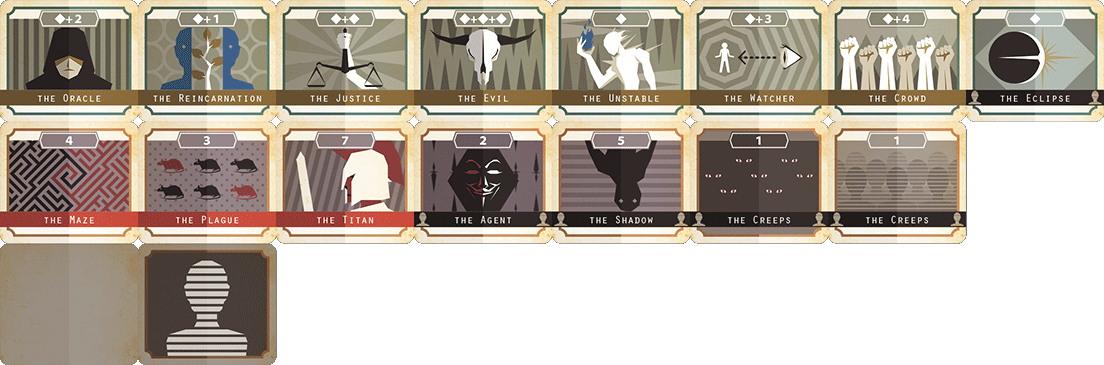
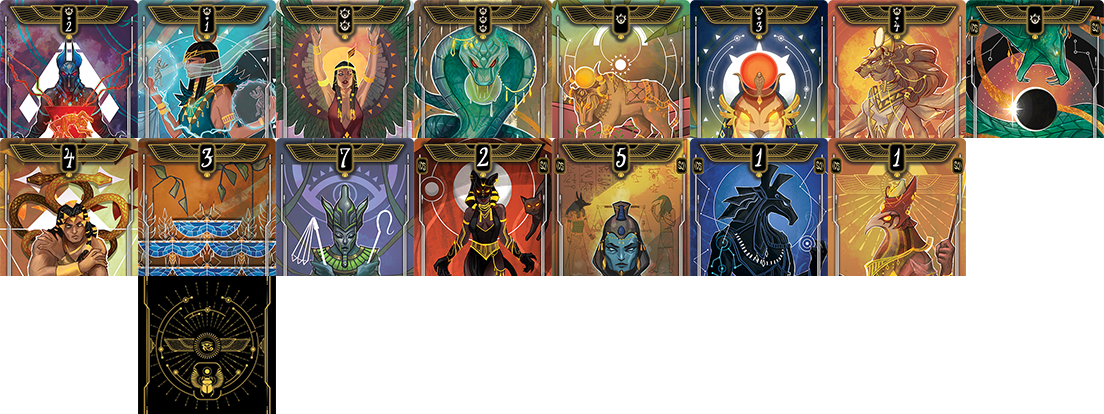
Replace non-center cards

diff --git a/src/def/card.ts b/src/def/card.ts
@@ -7,16 +7,17 @@ const cardDefs: { [cardType: string]: CardDef } = {
   mainCard: {
     image: cardsetImgUrl,
     sprite: '8x2',
-    size: { width: '276px', height: '390px', radius: '20px' },
+    size: { width: '275px', height: '472px', radius: '20px' },
     textDef: {
-      offsetY: '50%',
-      padding: '24px',
+      offsetY: '80%',
+      paddingSide: '29px',
+      paddingBottom: '23px',
     },
     minModalTop: 64,
     details: {
       0: {
-        name: 'the Oracle',
-        text: '[Placement] Choose a unit already placed in this lane. Disable stealth and [Combat] ability from the unit.',
+        name: 'Anubis',
+        text: '[Placement] Choose a unit already placed in this lane. Disable stealth and ability from the unit.',
         power: {
           fixed: 2,
           center: 1,
@@ -25,7 +26,7 @@ const cardDefs: { [cardType: string]: CardDef } = {
         stealth: false,
       },
       1: {
-        name: 'the Reincarnation',
+        name: 'Isis',
         text: '[Placement] Discard a non-stealth unit in this lane. The owner draws a unit card from the pile and immediately places it on the same lane.',
         power: {
           fixed: 1,
@@ -35,8 +36,8 @@ const cardDefs: { [cardType: string]: CardDef } = {
         stealth: false,
       },
       2: {
-        name: 'the Justice',
-        text: '[Combat] Increases ◆ in this lane by 1.',
+        name: 'Maat',
+        text: '[Combat] Increases ${loc_num} in this lane by 1.',
         power: {
           fixed: 0,
           center: 2,
@@ -45,8 +46,8 @@ const cardDefs: { [cardType: string]: CardDef } = {
         stealth: false,
       },
       3: {
-        name: 'the Evil',
-        text: '[Combat] Receive 1 damage if you lose in this lane.',
+        name: 'Apofis',
+        text: '[Combat] Receive 1 additional damage if you lose in this lane.',
         power: {
           fixed: 0,
           center: 3,
@@ -55,8 +56,8 @@ const cardDefs: { [cardType: string]: CardDef } = {
         stealth: false,
       },
       4: {
-        name: 'the Unstable',
-        text: '[Combat] Power of this unit becomes 15 if ◆ in this lane is either 6+ or 0-.',
+        name: 'Apis',
+        text: '[Combat] Power of APIS becomes 15 if ${loc_num} in this lane is either 6 or more than 6 or 0 or lower than 0.',
         power: {
           fixed: 0,
           center: 1,
@@ -65,7 +66,7 @@ const cardDefs: { [cardType: string]: CardDef } = {
         stealth: false,
       },
       5: {
-        name: 'the Watcher',
+        name: 'Ra',
         text: '[Placement] Choose and disable stealth from a unit (regardless of the lane).',
         power: {
           fixed: 3,
@@ -75,8 +76,8 @@ const cardDefs: { [cardType: string]: CardDef } = {
         stealth: false,
       },
       6: {
-        name: 'the Crowd',
-        text: 'None.',
+        name: 'Tefnut',
+        text: 'Tefnut has no ability.',
         power: {
           fixed: 4,
           center: 1,
@@ -84,8 +85,8 @@ const cardDefs: { [cardType: string]: CardDef } = {
         stealth: false,
       },
       7: {
-        name: 'the Eclipse',
-        text: '[Combat] Ties the Combat in this lane if the power gap is 4+. (Prior to the Titan).',
+        name: 'Eclipse',
+        text: '[Combat] Draw the combat in this lane if the power gap is 4+ (prior to Osiris).',
         power: {
           fixed: 0,
           center: 1,
@@ -93,7 +94,7 @@ const cardDefs: { [cardType: string]: CardDef } = {
         stealth: true,
       },
       8: {
-        name: 'the Maze',
+        name: 'Heka',
         text: '[Placement] Choose a stealth unit in this lane. Move it to another lane.',
         power: {
           fixed: 4,
@@ -103,8 +104,8 @@ const cardDefs: { [cardType: string]: CardDef } = {
         stealth: false,
       },
       9: {
-        name: 'the Plague',
-        text: '[Combat] Change ◆ in this lane to 0. (Apply this before any other abilities)',
+        name: 'La Plaga',
+        text: '[Combat] Change ${loc_num} in this lane to 0. (Apply this before any other combat abilities.)',
         power: {
           fixed: 3,
           center: 0,
@@ -112,8 +113,8 @@ const cardDefs: { [cardType: string]: CardDef } = {
         stealth: false,
       },
       10: {
-        name: 'the Titan',
-        text: '[Combat] The lower power wins in this lane. (Unless the combat is tied by the Eclipseʼs ability).',
+        name: 'Osiris',
+        text: '[Combat] The one with lower power wins in this lane (unless there is a draw).',
         power: {
           fixed: 7,
           center: 0,
@@ -121,8 +122,8 @@ const cardDefs: { [cardType: string]: CardDef } = {
         stealth: false,
       },
       11: {
-        name: 'the Agent',
-        text: '[Combat] Deals 1 damage to the opponent if you win this lane.',
+        name: 'Bastet',
+        text: '[Combat] Deals 1 additional damage to the opponent if you win in this lane.',
         power: {
           fixed: 2,
           center: 0,
@@ -130,8 +131,8 @@ const cardDefs: { [cardType: string]: CardDef } = {
         stealth: true,
       },
       12: {
-        name: 'the Shadow',
-        text: '[Combat] Reduces ◆ in this lane by 2.',
+        name: 'El Libro de los Muertos',
+        text: '[Combat] Reduces ${loc_num} in this lane by 2.',
         power: {
           fixed: 5,
           center: 0,
@@ -139,7 +140,7 @@ const cardDefs: { [cardType: string]: CardDef } = {
         stealth: true,
       },
       13: {
-        name: 'the Creeps',
+        name: 'Seth',
         text: '',
         power: {
           fixed: 1,
@@ -148,7 +149,7 @@ const cardDefs: { [cardType: string]: CardDef } = {
         stealth: true,
       },
       14: {
-        name: 'the Creeps',
+        name: 'Horus',
         text: '',
         power: {
           fixed: 1,
@@ -158,7 +159,7 @@ const cardDefs: { [cardType: string]: CardDef } = {
       },
       17: {
         name: 'Stealth',
-        text: '(Reviealed at the battle phase!)',
+        text: '(Reviealed at the combat phase!)',
         power: {
           fixed: 1,
           center: 0,
@@ -170,7 +171,7 @@ const cardDefs: { [cardType: string]: CardDef } = {
     miniDef: {
       image: cardsetMiniImgUrl,
       sprite: '8x3',
-      size: { width: '138px', height: '121.6px', radius: '10px' },
+      size: { width: '138px', height: '138px', radius: '10px' },
     },
   },
   centerCard: {

diff --git a/src/type/card-def.d.ts b/src/type/card-def.d.ts
@@ -1,0 +1,64 @@
+interface SizeDef {
+  width: string;
+  height: string;
+  radius: string;
+}
+
+interface TextLayoutDef {
+  offsetY: string;
+  offsetX?: string;
+  paddingSide: string;
+  paddingBottom: string;
+}
+
+type OnPlay =
+  | "TargetSameLane:Silence"
+  | "TargetNonStealthSameLane:Reincanate"
+  | "TargeAnytStealth:Reveal"
+  | "TargetSameLaneToAnother:Maze";
+type OnResolution =
+  | "IncleaseCenterBy1"
+  | "Receive1OnLose"
+  | "Becomes15OnCenter0or6"
+  | "ChangeCenterTo0"
+  | "LowerWins"
+  | "TiesOn4+"
+  | "Deal1OnWin"
+  | "ReducesCenterBy2";
+
+interface CardDetail {
+  name: string;
+  text: string;
+  power: {
+    fixed: number;
+    center: 0 | 1 | 2 | 3;
+  };
+  onPlay?: OnPlay;
+  onResolution?: OnResolution;
+  stealth: boolean;
+  onlyMini?: boolean;
+}
+
+interface CardDef {
+  image: string;
+  sprite: string;
+  size: SizeDef;
+  textDef?: TextLayoutDef;
+  minModalTop?: number;
+  details?: {
+    [id: number]: CardDetail;
+  };
+  miniDef?: MiniDef;
+}
+
+interface MiniDef {
+  image: string;
+  sprite: string;
+  size: SizeDef;
+}
+
+interface CardMetaDef {
+  text: string;
+}
+
+export { SizeDef, TextLayoutDef, CardDetail, CardDef, MiniDef, CardMetaDef };

diff --git a/src/components/GameCard.vue b/src/components/GameCard.vue
@@ -86,7 +86,8 @@ const updateDef = () => {
   size = def.size;
   textDef = def.textDef || {
     offsetY: '0',
-    padding: '0',
+    paddingSide: '0',
+    paddingBottom: '0',
   };
   miniDef = def.miniDef || null;
   bgPos.value = getBgPos(def.sprite, def.size, idx);
@@ -207,7 +208,9 @@ const hideDetails = () => {
             v-if="text"
             v-bind:style="{
               top: textDef.offsetY,
-              borderWidth: textDef.padding || 0,
+              borderWidth: `0 ${textDef.paddingSide || 0} ${
+                textDef.paddingBottom || 0
+              }`,
             }"
           >
             {{ i18n(text) }}
@@ -272,7 +275,9 @@ const hideDetails = () => {
           v-if="text"
           v-bind:style="{
             top: textDef.offsetY,
-            borderWidth: textDef.padding || 0,
+            borderWidth: `0 ${textDef.paddingSide || 0} ${
+              textDef.paddingBottom || 0
+            }`,
           }"
         >
           {{ i18n(text) }}
@@ -339,6 +344,7 @@ const hideDetails = () => {
   border: 0px solid transparent;
   overflow-y: auto;
   text-align: left;
+  font-size: small;
 }
 .title {
   position: absolute;

diff --git a/src/type/ctrl-button-def.d.ts b/src/type/ctrl-button-def.d.ts
@@ -1,0 +1,17 @@
+type ButtonType = "cancel" | "submit" | "mulligan" | "noMulligan" | "confirm";
+
+interface ButtonSizeDef {
+  width: string;
+  height: string;
+  radius: string;
+}
+
+interface CtrlButtonDef {
+  size: ButtonSizeDef;
+  label: string;
+  textColor: string;
+  background: string;
+  border: string;
+}
+
+export { ButtonType, ButtonSizeDef, CtrlButtonDef };

diff --git a/src/type/grid-def.d.ts b/src/type/grid-def.d.ts
@@ -1,0 +1,20 @@
+type GridType = "square";
+interface SizeDef {
+  width: string;
+  height: string;
+  radius: string;
+}
+
+interface MarginDef {
+  row: string;
+  column: string;
+}
+
+interface GridDef {
+  type: GridType;
+  layout: string | number[][];
+  size: SizeDef;
+  margin: MarginDef;
+}
+
+export { GridDef, SizeDef, MarginDef };

diff --git a/src/def/grid.ts b/src/def/grid.ts
@@ -22,7 +22,7 @@ const gridDef: { [cardType: string]: GridDef } = {
   table: {
     type: 'square',
     layout: '3x5',
-    size: { width: '138px', height: '120px', radius: '10px' },
+    size: { width: '138px', height: '138px', radius: '10px' },
     margin: { row: '10px', column: '10px' },
   },
 };

diff --git a/src/type/aura-def.d.ts b/src/type/aura-def.d.ts
@@ -1,0 +1,10 @@
+type AuraType = "selectable1" | "selectable2" | "selected";
+
+interface AuraDef {
+  background: string;
+  border: string;
+  anime?: string;
+  zIndex?: number,
+}
+
+export { AuraType, AuraDef };

diff --git a/src/type/hand-def.d.ts b/src/type/hand-def.d.ts
@@ -1,0 +1,11 @@
+interface SizeDef {
+  width: string;
+  height: string;
+  radius: string;
+}
+
+interface HandDef {
+  size: SizeDef;
+}
+
+export { HandDef, SizeDef };
